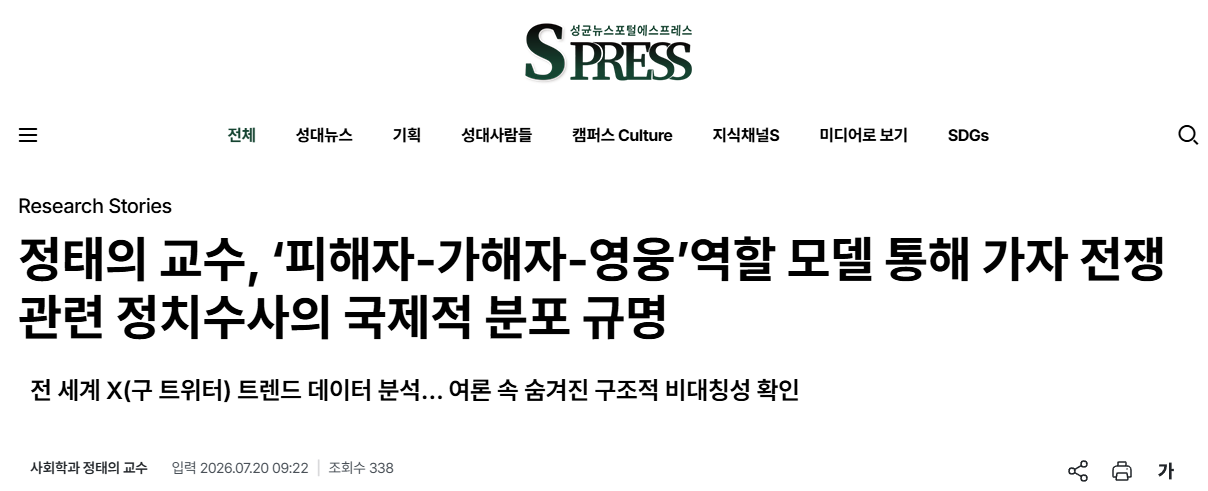
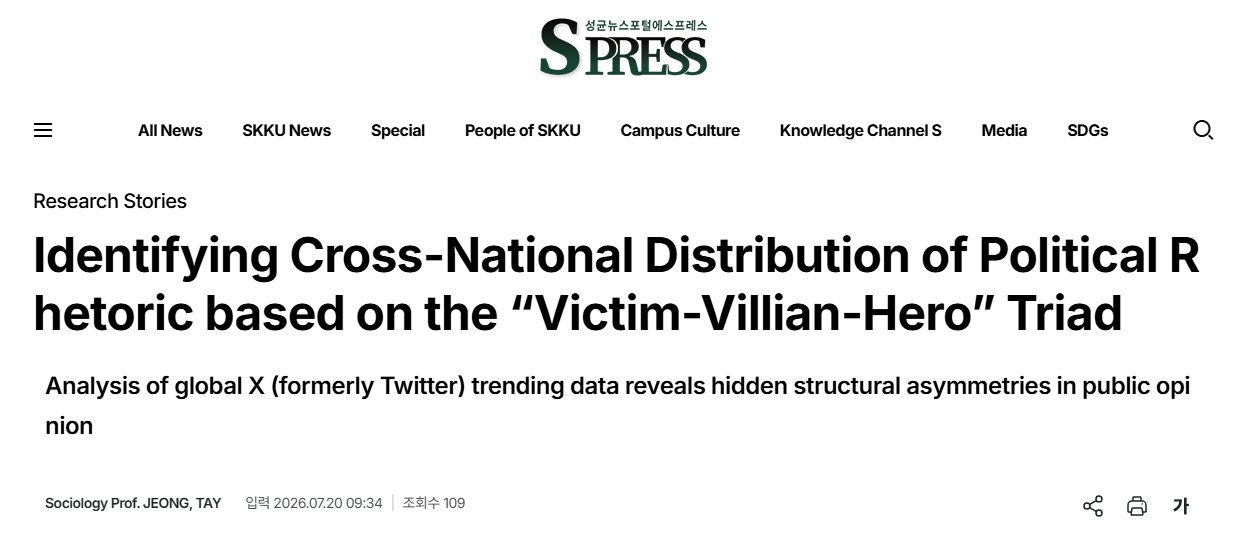
news added (spress) en corrected

diff --git a/content/en/post/2026-07-21-SPress/index.md b/content/en/post/2026-07-21-SPress/index.md
@@ -7,19 +7,19 @@ image:
 
 ![Article Headline](spress_headline.png)
 
-Professor Tay Jeong of the Department of Sociology analyzed the characteristics of hashtag activism that unfolded in the global online space during the early phase of the Gaza War, using country-level X (formerly Twitter) trend data and a novel role-based analytical framework. The study has drawn significant academic attention for offering a clear and elegant theoretical framework to illuminate the dynamics of war-related public opinion on social media.
+Professor Tay Jeong of the Department of Sociology has analyzed the characteristics of global hashtag movements during the early stages of the Gaza war, drawing on country-specific trending data from social media platform X (formerly Twitter) and a new role-based analytical framework. The study has drawn considerable attention in academic circles for offering a clear and accessible theoretical lens on the flow of wartime public opinion on social media.
 
-The Gaza War, which broke out in October 2023, sparked widespread political controversy from the very beginning. The author took as his starting point a debate among prominent progressive intellectuals worldwide over the symmetry of the war. While the claim that both sides of the conflict were driven by primal vengeance was widely advanced by mainstream Western intellectuals, a counter-argument held that Palestinian resistance should be understood not as an expression of hatred or vengeance, but as an expression of hope for liberation.
+The Gaza war, which broke out in October 2023, sparked wide-ranging political debate from its earliest days. The study takes as its starting point a debate among the global "progressive" intelligentsia over the symmetry of the conflict. While many mainstream Western intellectuals argued that both sides were driven by primal vengeance, others countered that Palestinian resistance should be understood not as an expression of hatred or revenge but as an expression of hope for liberation.
 
-To address this question, Professor Jeong introduced a triadic model of three core roles that fundamentally structure political rhetoric — Victim, Villain, and Hero — and meticulously classified and analyzed war-related hashtag slogans appearing in X trends across 62 countries according to this three-role model.
+To address this question, Professor Jeong introduced the "Victim–Villian–Hero" model as a qualitative tool for analyzing political oratory. He systematically classified and analyzed war-related hashtag slogans that trended on X across 62 countries worldwide according to this three-role framework.
 
-Pro-Palestine hashtag activism worldwide was overwhelmingly dominated by voices calling attention to the suffering of victims and appealing for peace (#GazaUnderAttack, #CeasefireNOW). However, differences in modes of expression emerged depending on where users were located. While users in Western countries such as Europe and the United States focused on humanitarian sympathy — grieving over victims' suffering and calling for an end to armed conflict — users in Arab-majority countries in the Middle East strongly expressed heroism slogans, emphasizing courage and resistance alongside the victim frame.
+Pro-Palestinian hashtag movements worldwide were dominated by voices highlighting victims' suffering and calling for peace (e.g., #GazaUnderAttack, #CeasefireNOW). However, modes of expression varied by region. Users in Western countries such as those in Europe and the United States tended to emphasize "humanitarian sympathy," mourning victims' suffering and calling for an end to violence, whereas users in Middle Eastern and Arab countries more strongly invoked "heroism," framing victimhood alongside courage and resistance in the face of hardship.
 
-Although such differences were commonly conceptualized as a West versus non-West divide, the study confirmed that, at least with respect to the current Gaza War, the more significant divide is between non-Arab and Arab countries. Contrary to the perception that the global pro-Palestine movement is a manifestation of primal vengeance or antisemitism, slogans condemning or attacking Israel appeared very infrequently, and militant support for Palestine was mostly expressed through the lens of heroism.
+This divide is often framed as a West-versus-non-West opposition, but the study finds that, at least in the case of the current Gaza war, the more salient divide is between Arab and non-Arab countries. Contrary to the assumption that the global pro-Palestinian movement is primarily an expression of primal vengeance or antisemitism, slogans condemning or attacking Israel were relatively rare; militant support for Palestine was instead expressed predominantly through the language of heroism.
 
-In contrast, pro-Israel hashtag activism was centered on villain-denunciation messages targeting the other side (#HamasTerrorists), with content emphasizing heroes being almost entirely absent — a distinctive pattern. Professor Jeong explained that in conflict situations marked by a significant power differential, the weaker side tends to seek the image of a hero in order to sustain hope, while the stronger side tends to focus on denouncing the other side in order to justify its own actions.
+By contrast, pro-Israel hashtag movements were centered on messages condemning and denouncing the "villian" (e.g., #HamasTerrorists), with heroic framing almost entirely absent—a notably distinct pattern. Professor Jeong explains that in conflicts marked by a significant power asymmetry, the weaker side tends to invoke the image of the "hero" to sustain hope, while the more powerful side tends to focus more on denouncing the adversary to justify its violent counterinsurgency campaigns.
 
-Professor Jeong stated: "Since the outbreak of the Gaza War, longstanding questions relating to violence by the colonized — including the symmetry and asymmetry of political rhetoric, humanitarianism versus anti-imperialism, and the gap between the West and non-West — have been actively debated, yet conceptual systematization has been lacking and empirical verification has been insufficient. I hope this study contributes, even in a small way, to resolving misunderstandings about the global pro-Palestine movement."
+Professor Tay Jeong stated, "Since the outbreak of the Gaza war, long-standing themes concerning violence by colonized subjects—including the symmetry and asymmetry of political rhetoric, humanitarianism versus anti-imperialism, and the divide between the West and non-West—have been actively discussed, yet these concepts have lacked systematic theorization and empirical validation." He added, "I hope this study contributes, even modestly, to clearing up misunderstandings about the global pro-Palestinian movement."
 
 ![Chart comparing structural changes in regional pro-Palestine public opinion and total hashtag volume over time](chart.png)
 ▲ Structural Changes in Regional Pro-Palestine Public Opinion and Comparison of Total Hashtag Volume Over Time
